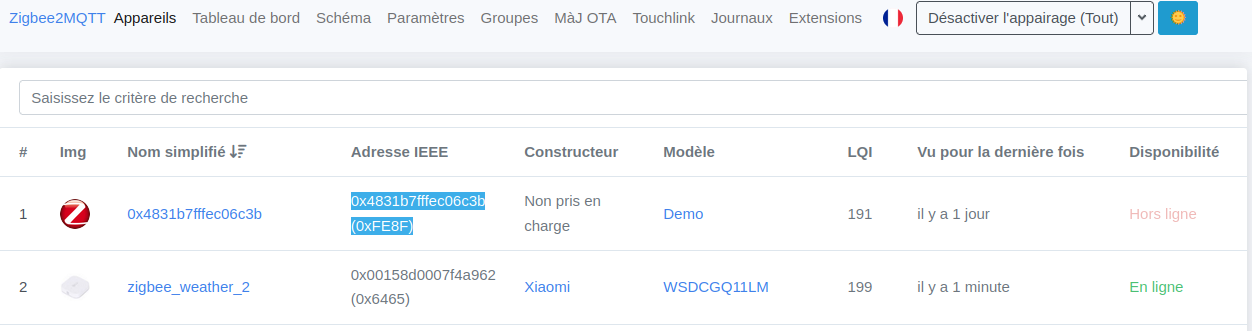
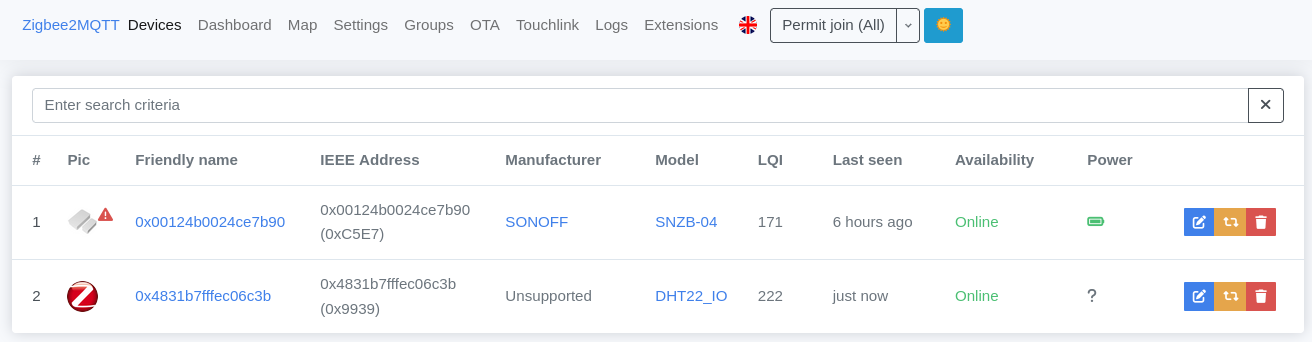
Update README.md

diff --git a/esp32-h2_1.js b/esp32-h2_1.js
@@ -1,0 +1,20 @@
+// https://github.com/Koenkk/zigbee-herdsman-converters/blob/master
+const fz = require('zigbee-herdsman-converters/converters/fromZigbee');
+const tz = require('zigbee-herdsman-converters/converters/toZigbee');
+const exposes = require('zigbee-herdsman-converters/lib/exposes');
+const reporting = require('zigbee-herdsman-converters/lib/reporting');
+const extend = require('zigbee-herdsman-converters/lib/extend');
+const e = exposes.presets;
+const ea = exposes.access;
+
+const definition = {
+    zigbeeModel: ['DHT22_IO'], // The model ID from: Device with modelID 'lumi.sens' is not supported.
+    model: 'ESP32-H2_1', // Vendor model number, look on the device for a model number
+    vendor: 'vdomos', // Vendor of the device (only used for documentation and startup logging)
+    description: 'ESP32-H2 Demo temperature & humidity sensor', // Description of the device, copy from vendor site. (only used for documentation and startup logging)
+    fromZigbee: [fz.temperature, fz.humidity, fz.terncy_contact], // We will add this later
+    toZigbee: [tz.on_off], // Should be empty, unless device can be controlled (e.g. lights, switches).
+    exposes: [e.temperature(), e.humidity(), e.switch(), e.contact()], // Defines what this device exposes, used for e.g. Home Assistant discovery and in the frontend
+};
+
+module.exports = definition;
